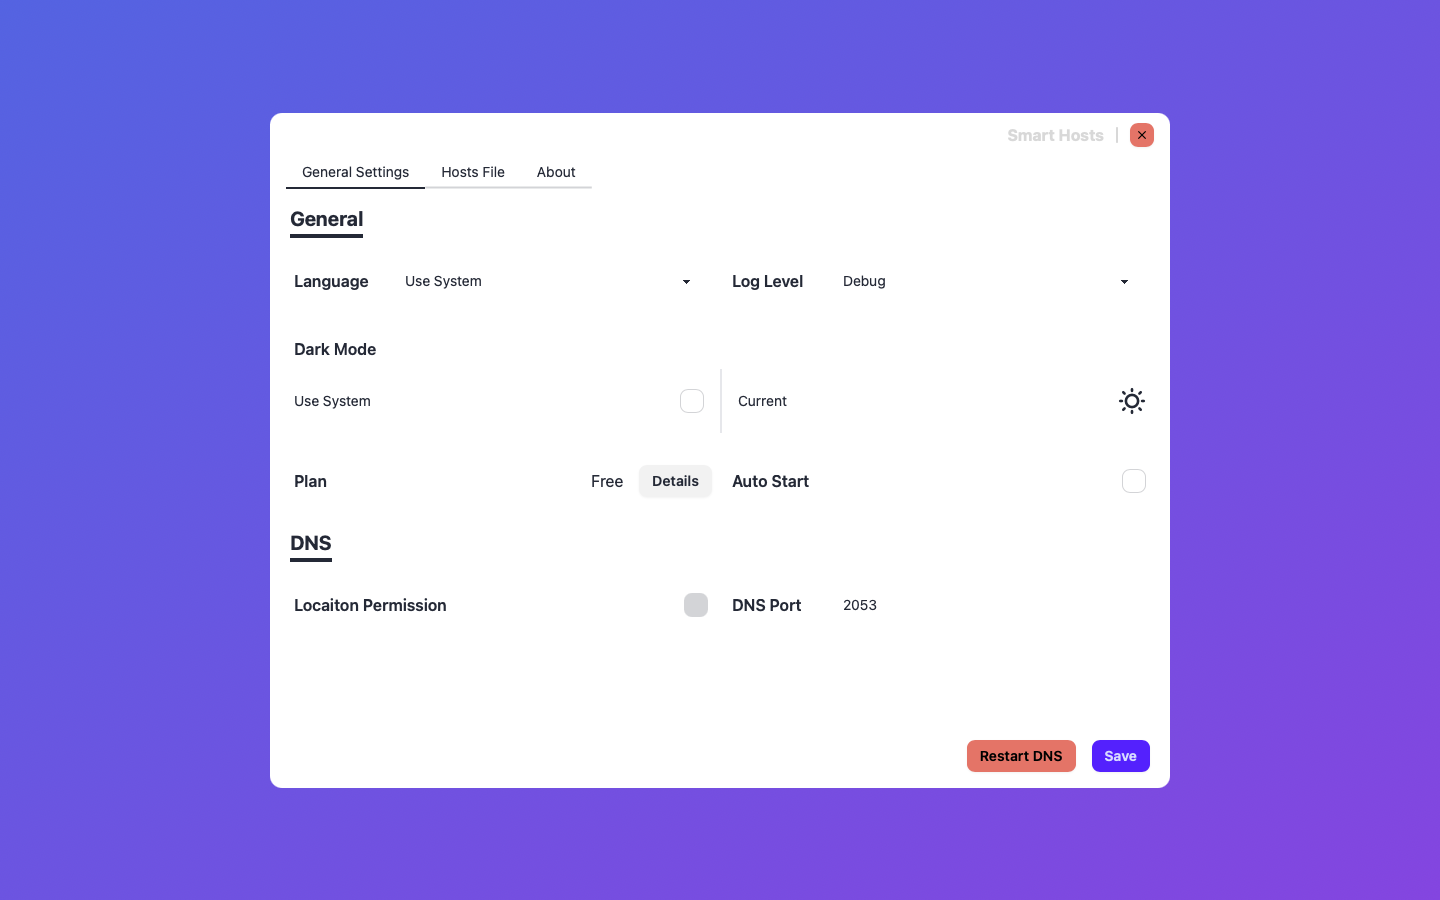
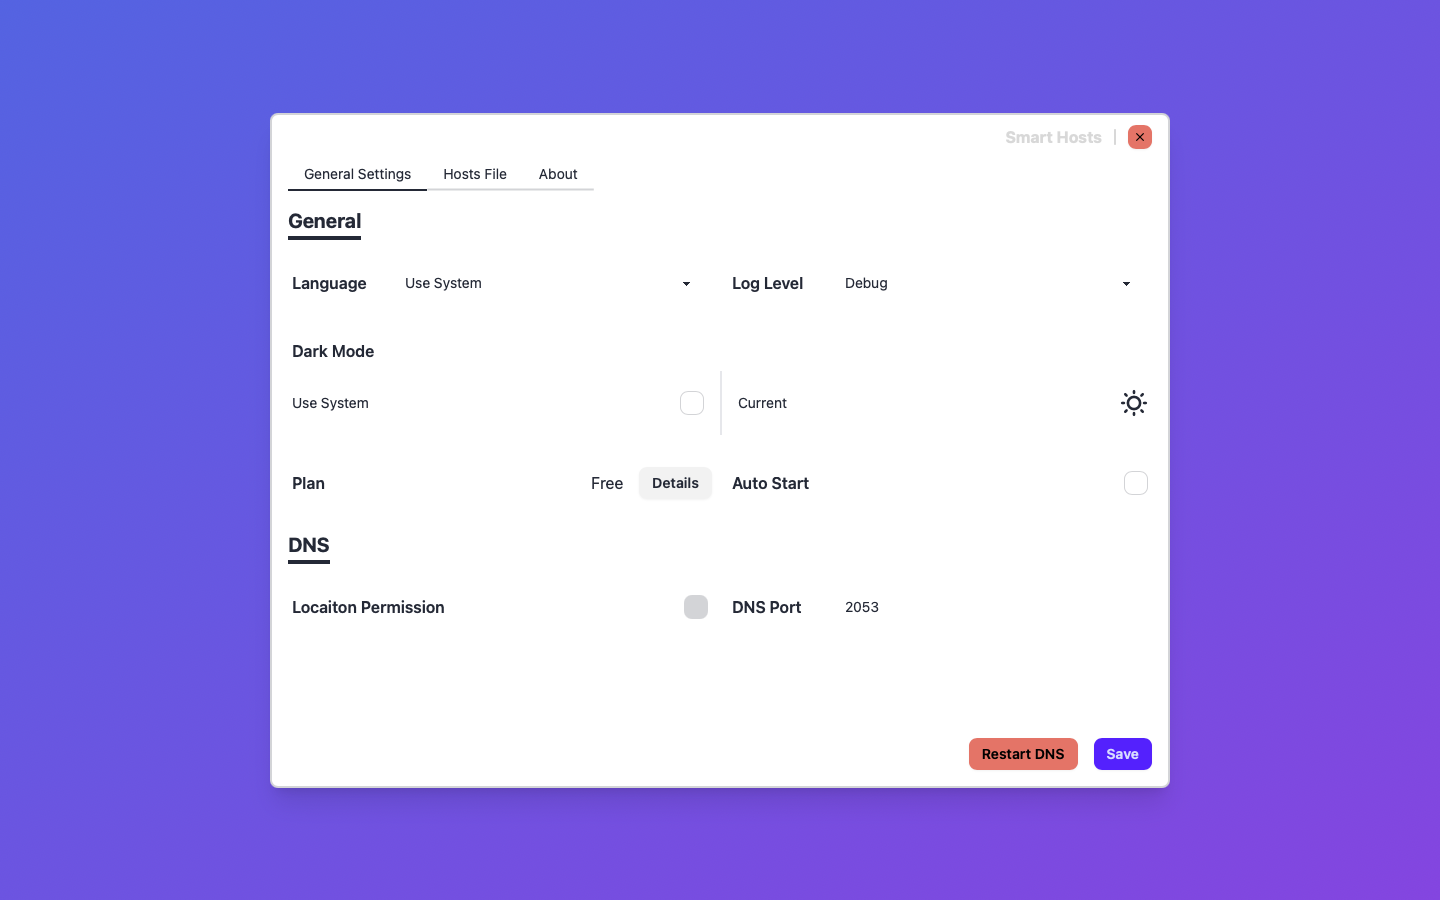
Update README.md

diff --git a/profile/README.md b/profile/README.md
@@ -65,6 +65,12 @@ Serve your smart hosts file as a DNS server.
 
 ## Changelogs
 
+### v0.5.1 (TestFlight)
+
+- Updated UI components in the settings interface and added window borders
+- Disabled resizing for the Tray window
+- Upgraded multiple third-party dependencies
+
 ### v0.5.0 (2025-01-09)
 
 - **New Feature**: Hosts file code editor with syntax highlighting powered by `tree-sitter`

diff --git a/profile/README.zh.md b/profile/README.zh.md
@@ -60,6 +60,12 @@
 
 ## 变更日志
 
+### v0.5.1 (TestFlight)
+
+- 调整配置界面组件 UI，新增窗口边框
+- 去除 Tray 窗口的大小调整能力
+- 更新多个第三方依赖
+
 ### v0.5.0 (2025-01-09)
 
 - Hosts 文件代码编辑器，通过 tree-sitter 支持代码高亮
